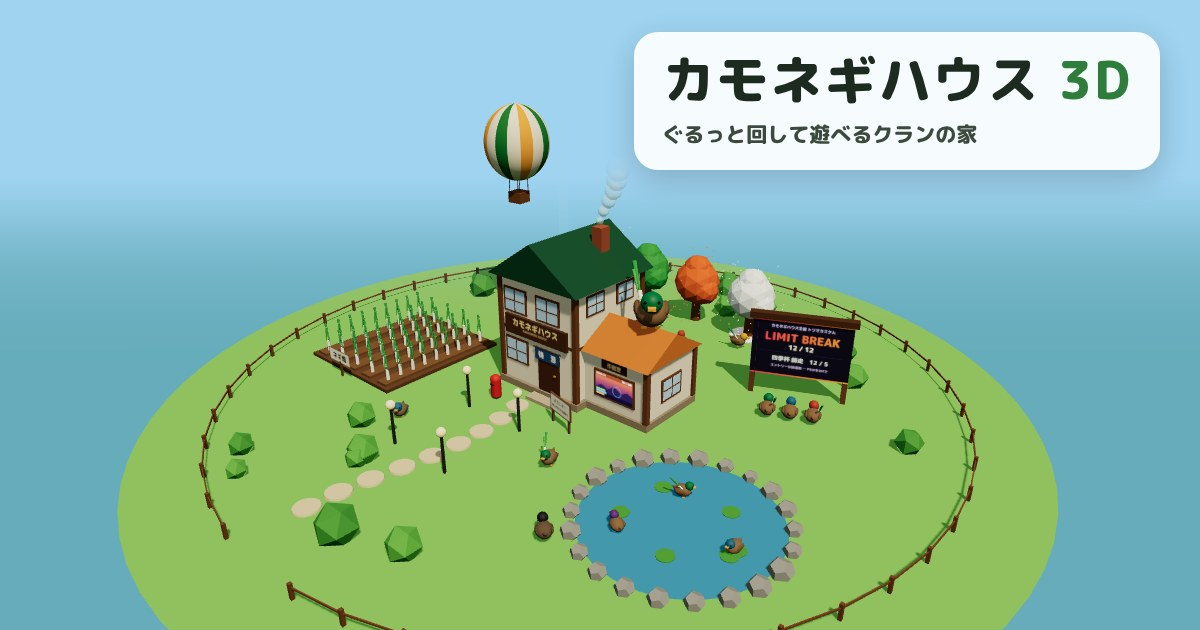
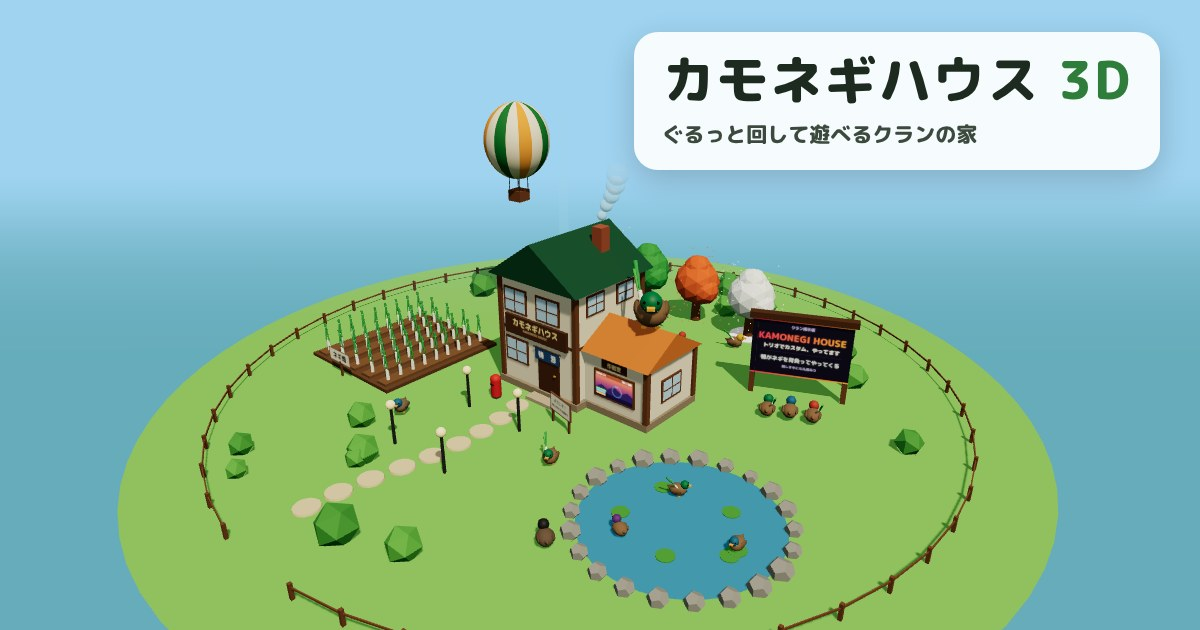
掲示板と並木の表記を変更
掲示板・並木・説明ラベルの文言を書き換え、カード画像を更新

Claude-Session: https://claude.ai/code/session_01UwSdSWXgwuReqdZH3rXte7

diff --git a/index.html b/index.html
@@ -66,7 +66,7 @@
   <div class="row" id="spots">
     <button class="ghost" data-spot="all">全景</button>
     <button class="ghost" data-spot="house">家</button>
-    <button class="ghost" data-spot="board">大会掲示板</button>
+    <button class="ghost" data-spot="board">掲示板</button>
     <button class="ghost" data-spot="seasons">四季の並木</button>
     <button class="ghost" data-spot="pond">池</button>
   </div>
@@ -96,7 +96,7 @@ import * as THREE from 'three';
 import { OrbitControls } from 'three/addons/controls/OrbitControls.js';
 
 const FONT = '"M PLUS Rounded 1c", "Hiragino Maru Gothic ProN", "Hiragino Sans", sans-serif';
-const ALL_TEXT = 'カモネギハウスKAMONEGI HOUSE鴨葱作戦室ネギ畑四季杯の並木ようこそ！親しき中にも礼儀あり主催トリオカスタムLIMIT BREAK0123456789/ 師走エントリーは抽選制─PSIDをDMで残り部隊SQUADCHAMPION!';
+const ALL_TEXT = 'カモネギハウスKAMONEGI HOUSE鴨葱作戦室ネギ畑四季の並木ようこそ！親しき中にも礼儀ありクラン掲示板トリオでカスタム、やってます鴨がネギを背負ってやってくる0123456789/ 残り部隊SQUADCHAMPION!';
 try {
   await Promise.race([
     document.fonts.load(`800 48px "M PLUS Rounded 1c"`, ALL_TEXT),
@@ -369,13 +369,13 @@ const pondDucks = [];
   tag(d, '池でひと休み中の鴨');
 });
 
-// ---------- four seasonal trees (四季杯の並木)
+// ---------- four seasonal trees (四季の並木)
 const seasons = new THREE.Group(); seasons.position.set(-4, 0, -17); scene.add(seasons);
 const seasonData = [
-  {name:'春 ─ 皐月杯（第2回）', leaf:'#f7b6cf', x:-9},
-  {name:'夏 ─ 次の開催を待つ季節', leaf:'#3e9b3f', x:-3},
-  {name:'秋 ─ 霜月（→ LIMIT BREAK 12/12）', leaf:'#e0682b', x:3},
-  {name:'冬 ─ 師走 12/5（抽選エントリー）', leaf:'#eef4f8', x:9, snow:true},
+  {name:'春 ─ 桜が舞う', leaf:'#f7b6cf', x:-9},
+  {name:'夏 ─ 青々とした葉', leaf:'#3e9b3f', x:-3},
+  {name:'秋 ─ 紅葉が散る', leaf:'#e0682b', x:3},
+  {name:'冬 ─ 雪化粧', leaf:'#eef4f8', x:9, snow:true},
 ];
 seasonData.forEach(s => {
   const t = new THREE.Group(); t.position.x = s.x; seasons.add(t);
@@ -397,9 +397,9 @@ particleGeo.setAttribute('position', new THREE.BufferAttribute(pp, 3));
 particleGeo.setAttribute('color', new THREE.BufferAttribute(pc, 3));
 const particles = new THREE.Points(particleGeo, new THREE.PointsMaterial({size:0.22, vertexColors:true})); seasons.add(particles);
 mesh(new THREE.BoxGeometry(0.15, 2, 0.15), woodMat, 0, 1, 3.95, seasons);
-mesh(new THREE.PlaneGeometry(5, 1.4), new THREE.MeshStandardMaterial({map:textTex(['四季杯の並木'], {w:700, h:200, sizes:[100], border:'#7a4e2d'}), side:THREE.DoubleSide}), 0, 2, 4, seasons);
+mesh(new THREE.PlaneGeometry(5, 1.4), new THREE.MeshStandardMaterial({map:textTex(['四季の並木'], {w:700, h:200, sizes:[100], border:'#7a4e2d'}), side:THREE.DoubleSide}), 0, 2, 4, seasons);
 
-// ---------- tournament board (大会掲示板)
+// ---------- clan bulletin board (掲示板)
 const board = new THREE.Group(); board.position.set(14, 0, -9); board.rotation.y = 0.4; scene.add(board);
 [-3.6, 3.6].forEach(x => mesh(new THREE.BoxGeometry(0.4, 6.6, 0.4), woodMat, x, 3.3, -0.1, board));
 mesh(new THREE.BoxGeometry(8.2, 0.5, 0.7), darkWood, 0, 6.85, 0, board);
@@ -408,21 +408,21 @@ const boardTex = canvasTex(1024, 640, (g, w, h) => {
   const gr = g.createLinearGradient(0, 0, w, 0); gr.addColorStop(0, '#ff4d6d'); gr.addColorStop(1, '#ffb238');
   g.fillStyle = gr; g.fillRect(0, 0, w, 14); g.fillRect(0, h-14, w, 14);
   g.textAlign = 'center'; g.textBaseline = 'middle';
-  g.fillStyle = '#cfc6ff'; g.font = `800 40px ${FONT}`; g.fillText('カモネギハウス主催 トリオカスタム', w/2, 70);
-  g.fillStyle = gr; g.font = `800 120px ${FONT}`; g.fillText('LIMIT BREAK', w/2, 190);
-  g.fillStyle = '#fff'; g.font = `800 70px ${FONT}`; g.fillText('12 / 12', w/2, 300);
+  g.fillStyle = '#cfc6ff'; g.font = `800 40px ${FONT}`; g.fillText('クラン掲示板', w/2, 70);
+  g.fillStyle = gr; g.font = `800 100px ${FONT}`; g.fillText('KAMONEGI HOUSE', w/2, 190);
+  g.fillStyle = '#fff'; g.font = `800 56px ${FONT}`; g.fillText('トリオでカスタム、やってます', w/2, 300);
   g.fillStyle = '#3a3360'; g.fillRect(90, 362, w-180, 4);
-  g.fillStyle = '#e8f1f7'; g.font = `800 62px ${FONT}`; g.fillText('四季杯 師走　12 / 5', w/2, 440);
-  g.fillStyle = '#bdb6e6'; g.font = `800 36px ${FONT}`; g.fillText('エントリーは抽選制 ─ PSIDをDMで', w/2, 525);
+  g.fillStyle = '#e8f1f7'; g.font = `800 58px ${FONT}`; g.fillText('鴨がネギを背負ってやってくる', w/2, 445);
+  g.fillStyle = '#bdb6e6'; g.font = `800 36px ${FONT}`; g.fillText('親しき中にも礼儀あり', w/2, 530);
 });
 const boardFace = mesh(new THREE.BoxGeometry(7.6, 4.75, 0.3),
   faceMats(woodMat, new THREE.MeshStandardMaterial({map:boardTex, emissive:'#ffffff', emissiveMap:boardTex, emissiveIntensity:0.15})), 0, 4.2, 0, board);
-tag(board, '大会掲示板：LIMIT BREAK 12/12・四季杯 師走 12/5');
+tag(board, 'クラン掲示板：今日もトリオでカスタム');
 const boardLight = new THREE.SpotLight('#ffd9a0', 0, 20, 0.6, 0.5); boardLight.position.set(0, 8.5, 4); boardLight.target = boardFace; board.add(boardLight);
 // a trio holding a strategy meeting in front of the board
 const trio = new THREE.Group(); trio.position.set(15.2, 0, -5.6); trio.rotation.y = 1.97; scene.add(trio);
 ['#1f7a4a', '#2a6f8f', '#b8462e'].forEach((h, i) => { const d = makeDuck({scale:0.6, head:h, negi:i !== 1}); d.position.z = (i-1)*1.7; trio.add(d); });
-tag(trio, 'トリオ：大会に向けて作戦会議中');
+tag(trio, 'トリオ：カスタムに向けて作戦会議中');
 
 // ---------- supply-style crate with a light beam
 const crate = new THREE.Group(); crate.position.set(-14, 0, -12); crate.rotation.y = 0.3; scene.add(crate);
@@ -456,7 +456,7 @@ mesh(new THREE.BoxGeometry(0.5, 0.2, 0.5), M('#555'), 0, 0.1, 0, mailbox);
 mesh(new THREE.CylinderGeometry(0.42, 0.42, 1.4, 20), red, 0, 0.9, 0, mailbox);
 mesh(new THREE.SphereGeometry(0.44, 20, 10, 0, Math.PI*2, 0, Math.PI/2), red, 0, 1.6, 0, mailbox);
 mesh(new THREE.BoxGeometry(0.4, 0.06, 0.05), M('#151515'), 0, 1.3, 0.42, mailbox);
-tag(mailbox, 'ポスト：師走のエントリーはPSIDをDMで（抽選）');
+tag(mailbox, 'ポスト：ネギの便り、受付中');
 
 // ---------- lamps
 const lampLights = [], bulbMats = [];
@@ -472,7 +472,7 @@ const houseLight = new THREE.PointLight('#ffbb66', 0, 22); houseLight.position.s
 // ---------- members (アクティブメンバー)
 const memberDefs = [
   {c:[3.5, 11.5], r:2.2, s:0.35,  head:'#1f7a4a', body:'#8a6a4a', label:'メンバー：玄関前をおさんぽ中'},
-  {c:[-6, 12],    r:2.2, s:-0.3,  head:'#2a6f8f', body:'#7d6a55', label:'メンバー：師走のエントリーDMを出しに来た'},
+  {c:[-6, 12],    r:2.2, s:-0.3,  head:'#2a6f8f', body:'#7d6a55', label:'メンバー：ポストを見に来た'},
   {c:[-10, -3],   r:2,   s:0.4,   head:'#6a3f8a', body:'#8a6a4a', label:'メンバー：ネギの育ち具合をチェック中'},
   {c:[0, -9],     r:2.5, s:-0.28, head:'#b8462e', body:'#7a5f44', label:'メンバー：裏庭でエイム練習の休憩中'},
   {c:[6, -12],    r:2,   s:0.33,  head:'#d1a21f', body:'#8a6a4a', label:'メンバー：四季の木を見に来た'},
